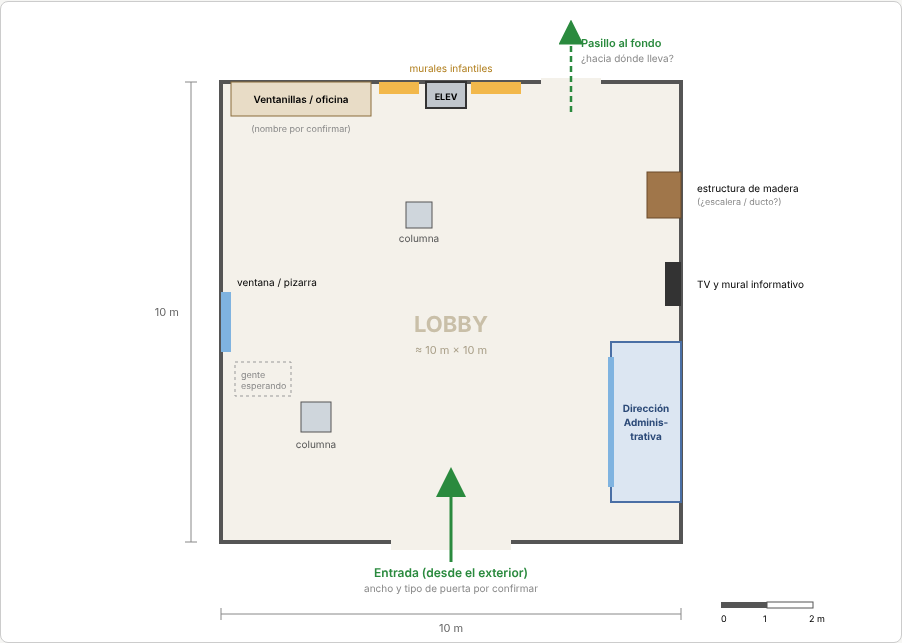
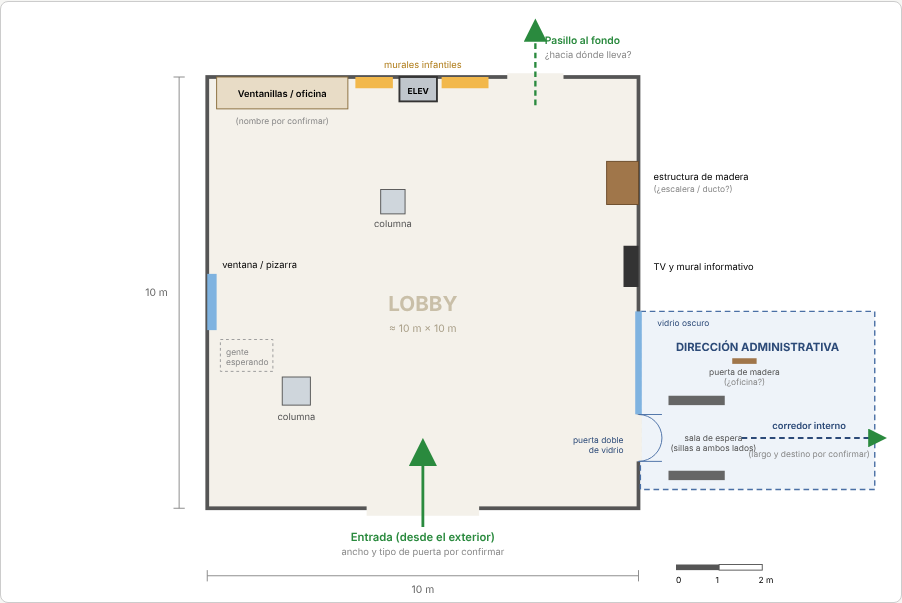
Croquis: Dirección Administrativa con puerta y corredor interno
Claude-Session: https://claude.ai/code/session_015W3oK3Lfhysnu56NGNY6hD

diff --git a/croquis/index.html b/croquis/index.html
@@ -105,7 +105,7 @@
 <h2 style="font-size:1.1rem;margin-top:28px">Detalle: Lobby (planta baja) · aprox. 10 m × 10 m</h2>
 <p style="font-size:.85rem;max-width:900px;margin:0 0 8px">Visto desde arriba, entrando por la parte de abajo del dibujo y mirando hacia el fondo. Medida total según descripción; la posición de lo que hay dentro es aproximada.</p>
 <div class="mapa">
-<svg viewBox="0 0 900 640" xmlns="http://www.w3.org/2000/svg" font-family="system-ui, sans-serif">
+<svg viewBox="0 0 960 640" xmlns="http://www.w3.org/2000/svg" font-family="system-ui, sans-serif">
   <defs>
     <marker id="fl2" markerWidth="10" markerHeight="10" refX="5" refY="5" orient="auto">
       <path d="M0,0 L10,5 L0,10 Z" fill="#2a8a3e"/>
@@ -142,11 +142,30 @@
   <text x="418" y="240" text-anchor="middle" font-size="10" fill="#555">columna</text>
 
   <!-- Pared derecha -->
-  <rect x="610" y="340" width="70" height="160" fill="#dce6f2" stroke="#4a6fa5" stroke-width="2"/>
-  <line x1="610" y1="355" x2="610" y2="485" stroke="#7fb3e0" stroke-width="6"/>
-  <text x="645" y="410" text-anchor="middle" font-size="10" font-weight="700" fill="#2c4a78">Dirección</text>
-  <text x="645" y="424" text-anchor="middle" font-size="10" font-weight="700" fill="#2c4a78">Adminis-</text>
-  <text x="645" y="438" text-anchor="middle" font-size="10" font-weight="700" fill="#2c4a78">trativa</text>
+  <!-- Dirección Administrativa: fachada de vidrio en la pared derecha del lobby; la oficina queda fuera del lobby -->
+  <rect x="682" y="330" width="250" height="190" fill="#eef3f9" stroke="#4a6fa5" stroke-width="1.5" stroke-dasharray="6 4"/>
+  <line x1="680" y1="330" x2="680" y2="440" stroke="#7fb3e0" stroke-width="7"/>
+  <text x="700" y="346" font-size="9" fill="#2c4a78">vidrio oscuro</text>
+  <!-- Puerta doble de vidrio -->
+  <line x1="680" y1="440" x2="680" y2="490" stroke="#f4f1ea" stroke-width="7"/>
+  <path d="M680,440 A25,25 0 0 1 705,465" fill="none" stroke="#4a6fa5"/>
+  <path d="M680,490 A25,25 0 0 0 705,465" fill="none" stroke="#4a6fa5"/>
+  <line x1="680" y1="440" x2="705" y2="440" stroke="#4a6fa5"/>
+  <line x1="680" y1="490" x2="705" y2="490" stroke="#4a6fa5"/>
+  <text x="664" y="470" text-anchor="end" font-size="9" fill="#2c4a78">puerta doble</text>
+  <text x="664" y="481" text-anchor="end" font-size="9" fill="#2c4a78">de vidrio</text>
+  <!-- Interior -->
+  <text x="807" y="372" text-anchor="middle" font-size="12" font-weight="700" fill="#2c4a78">DIRECCIÓN ADMINISTRATIVA</text>
+  <rect x="712" y="420" width="60" height="10" fill="#666"/>
+  <rect x="712" y="500" width="60" height="10" fill="#666"/>
+  <text x="760" y="468" text-anchor="middle" font-size="9" fill="#555">sala de espera</text>
+  <text x="760" y="479" text-anchor="middle" font-size="9" fill="#555">(sillas a ambos lados)</text>
+  <rect x="780" y="380" width="26" height="6" fill="#a0764a"/>
+  <text x="793" y="398" text-anchor="middle" font-size="9" fill="#555">puerta de madera</text>
+  <text x="793" y="408" text-anchor="middle" font-size="9" fill="#888">(¿oficina?)</text>
+  <path d="M790,465 L935,465" stroke="#2c4a78" stroke-width="2" stroke-dasharray="6 4" marker-end="url(#fl2)"/>
+  <text x="862" y="455" text-anchor="middle" font-size="10" font-weight="600" fill="#2c4a78">corredor interno</text>
+  <text x="862" y="485" text-anchor="middle" font-size="9" fill="#888">(largo y destino por confirmar)</text>
   <rect x="664" y="260" width="16" height="44" fill="#333"/>
   <text x="696" y="286" font-size="10">TV y mural informativo</text>
   <rect x="646" y="170" width="34" height="46" fill="#a0764a" stroke="#6b4b2a"/>
